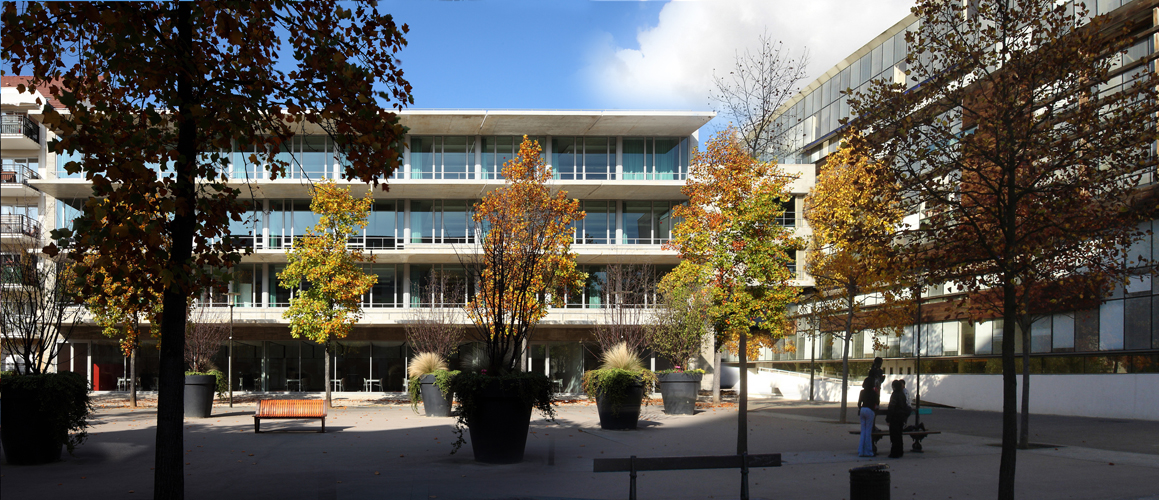
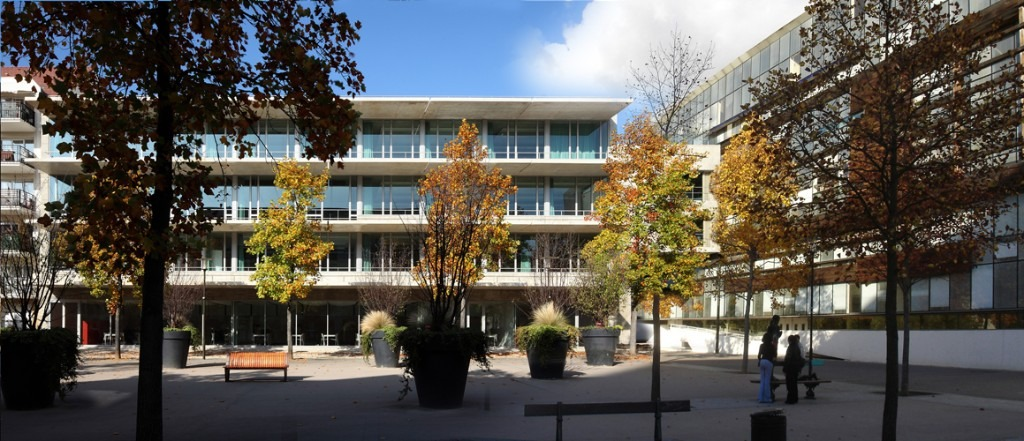
Remplace iut.jpg par la photo campus IUT (panoramique) et cache-bust CSS
Made-with: Cursor

diff --git a/src/css/style.css b/src/css/style.css
@@ -537,7 +537,7 @@ body {
     width: 100%;
     background-image:
         linear-gradient(135deg, rgba(10, 10, 15, 0.9) 0%, rgba(10, 10, 15, 0.85) 100%),
-        url("iut.jpg");
+        url("iut.jpg?v=2");
     background-size: cover;
     background-position: center;
     background-repeat: no-repeat;
